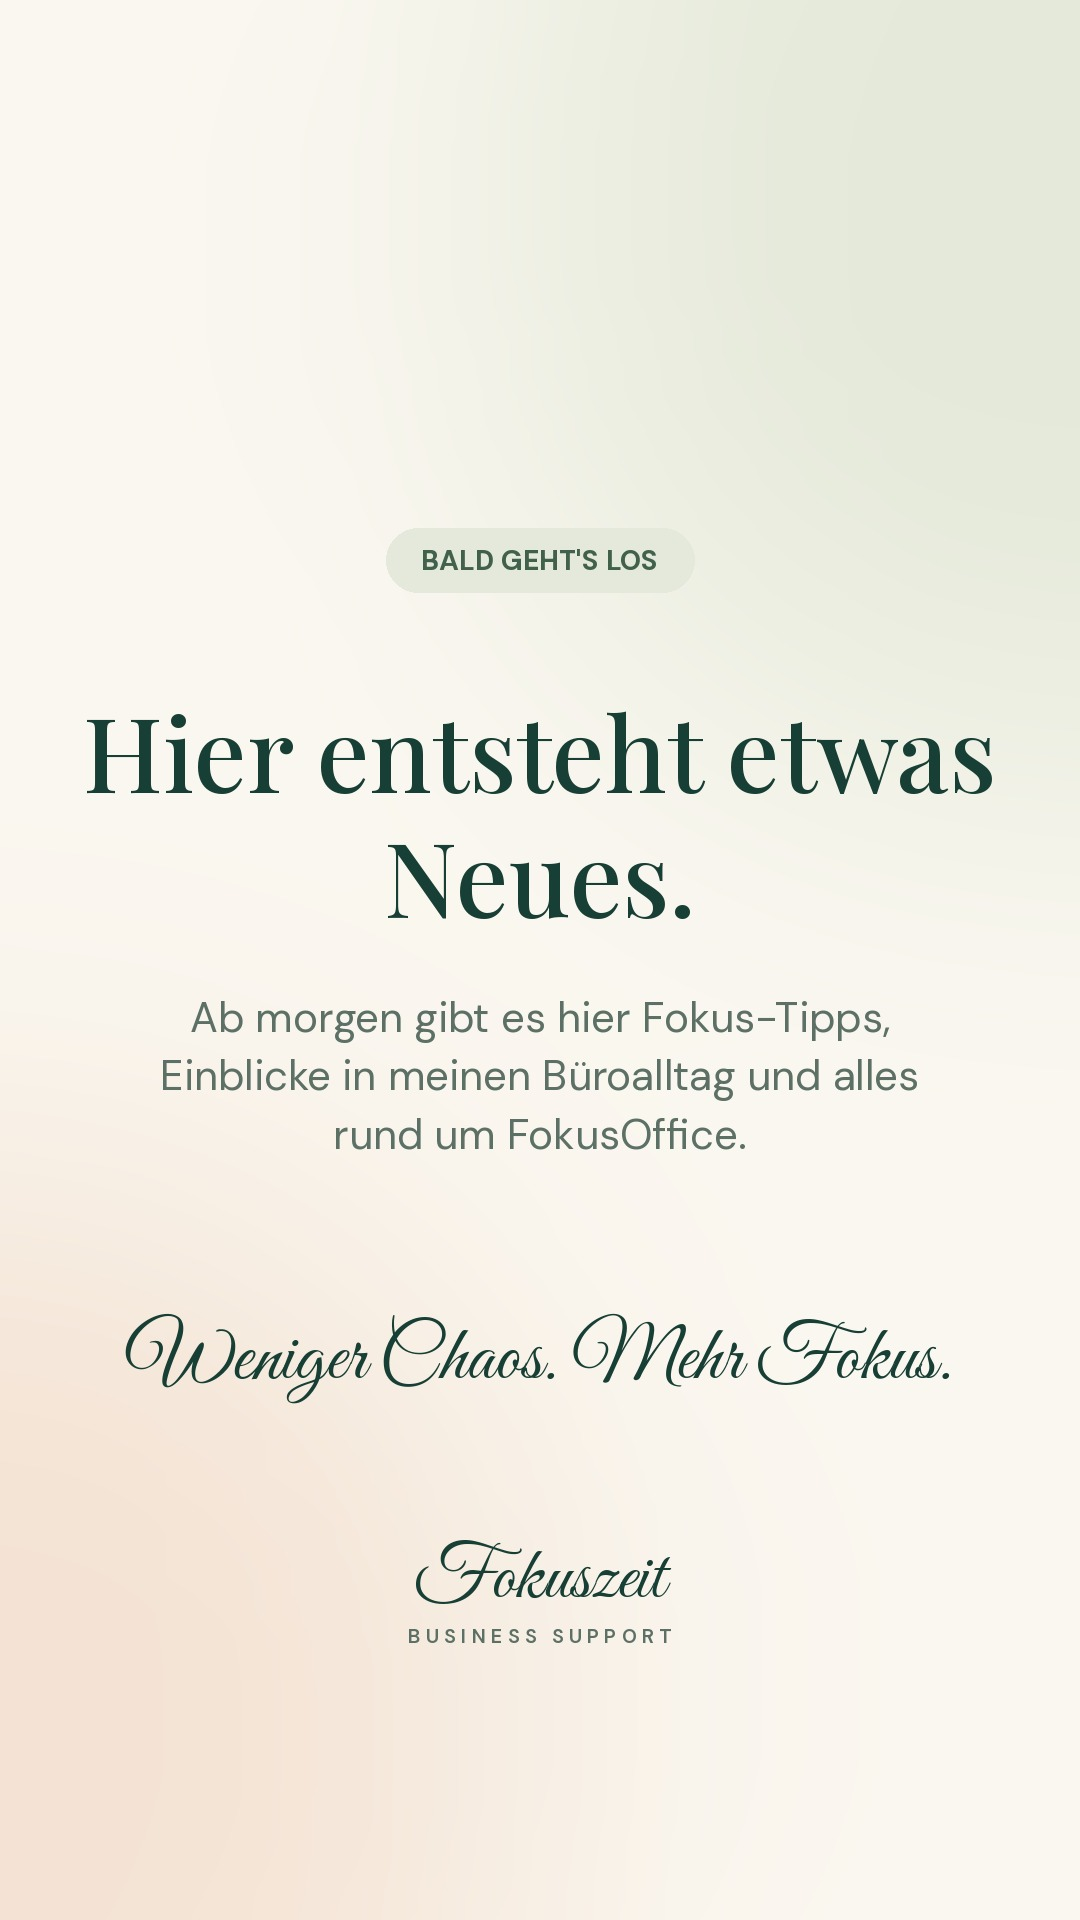
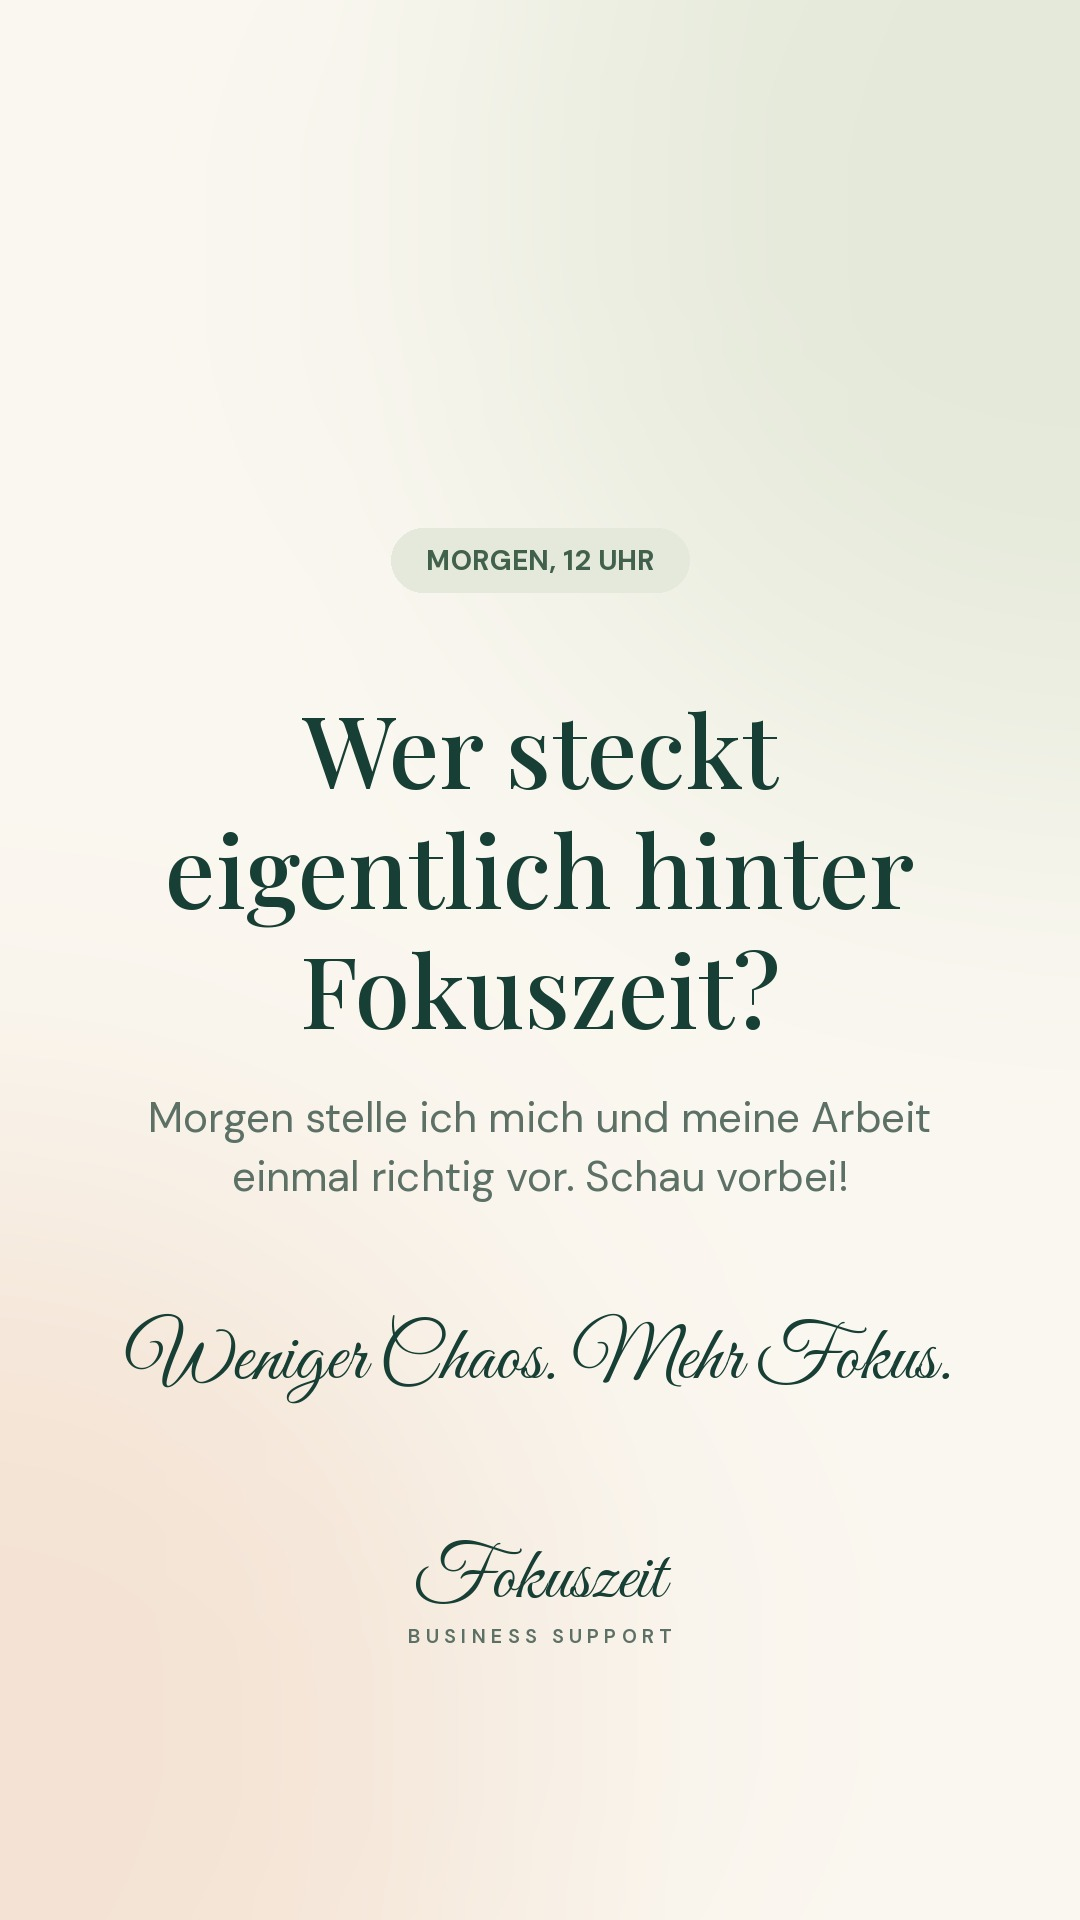
Story 29.10. angepasst: Profil ist nicht neu
Claude-Session: https://claude.ai/code/session_01NA1kJx4sZCFfTM8CresH3w

Changed region(s): [[0.0611, 0.375, 0.9167, 0.625], [0.3972, 0.2812, 0.6111, 0.3125]]

diff --git a/manuell/ANLEITUNG.md b/manuell/ANLEITUNG.md
@@ -7,7 +7,7 @@ So kommst du an die Datei: Datei hier auf GitHub antippen → **„…“ → Do
 
 | Wann | Datei | Was du in der App hinzufügst |
 |------|-------|------------------------------|
-| Do 29.10., 18:00 | `2026-10-29_18-00_story.jpg` | Ruhige Musik (Sticker „Musik“). Optional: Sticker „Countdown“ auf morgen 12:00, Titel „Hallo, ich bin Lara“. |
+| Do 29.10., 18:00 | `2026-10-29_18-00_story.jpg` | Ruhige Musik (Sticker „Musik“). Optional: Sticker „Countdown“ auf morgen 12:00, Titel „Lerne mich kennen“. |
 | Fr 30.10., 18:00 | `2026-10-30_18-00_story.jpg` | **Besser:** Statt dieses Bildes deinen neuen Beitrag direkt teilen (unter dem Beitrag auf den Papierflieger → „Zu Story hinzufügen“). Dann ist er antippbar. Das Bild ist die Alternative dazu. |
 | Mo 2.11., 12:00 | `2026-11-02_12-00_story.jpg` | Sticker **„Umfrage“** in die freie Mitte, Antworten z. B. „Unter 20“ / „Über 20“ oder Sticker „Schieberegler“ mit 📩. Optional zusätzlich den E-Mail-Tipp-Beitrag teilen. |
 | Di 3.11., 19:00 | **Reel** `2026-11-03_19-00.mp4` | Musik: ruhig, instrumental, leise. Caption aus `2026-11-03_19-00.txt` kopieren. Titelbild: das erste Bild „Findest du deine Dateien sofort?“. |
